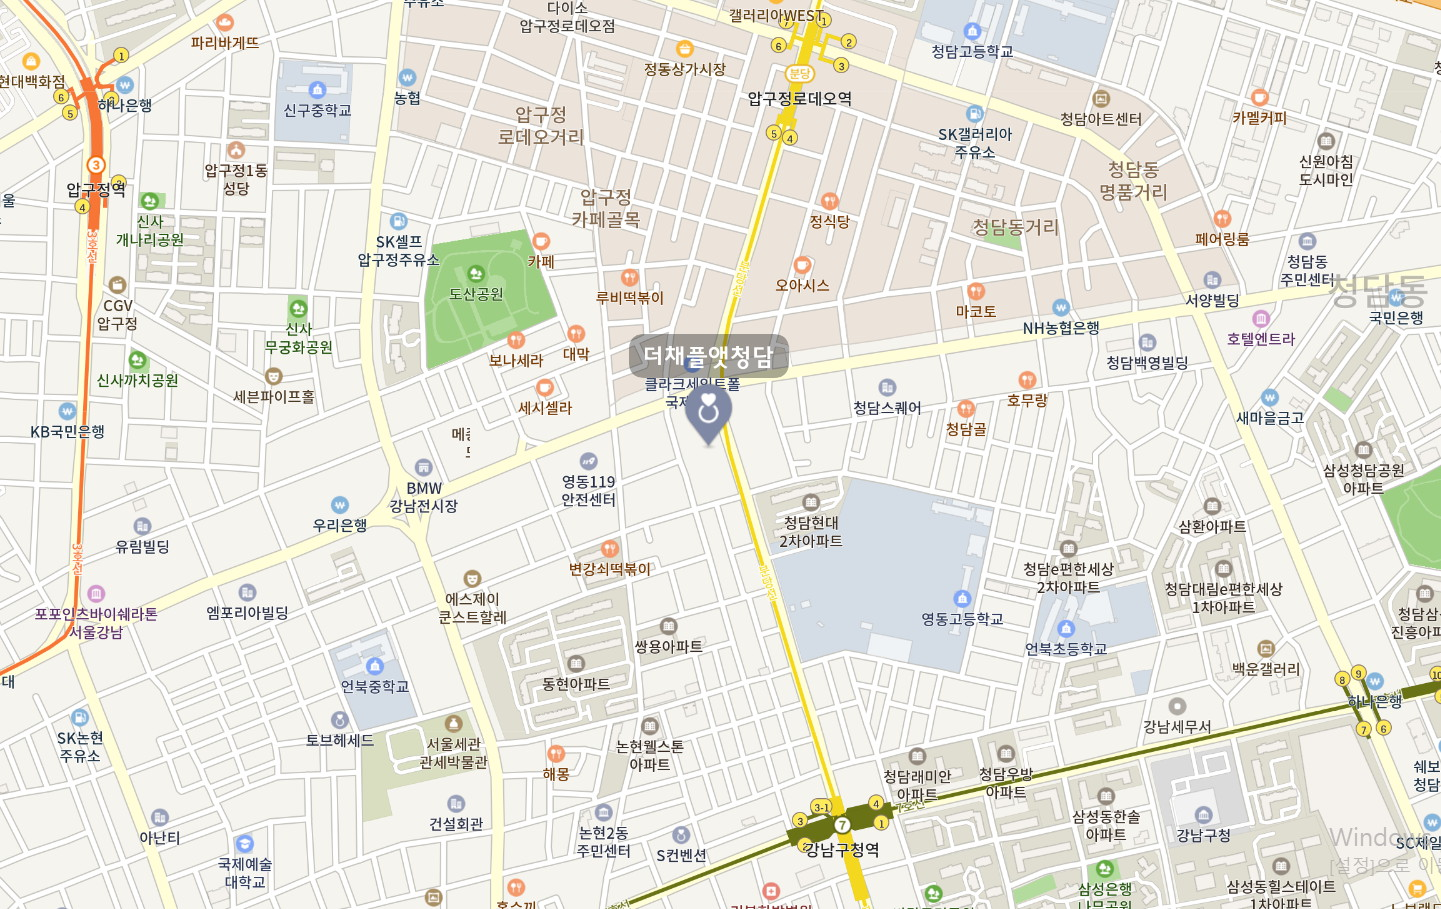
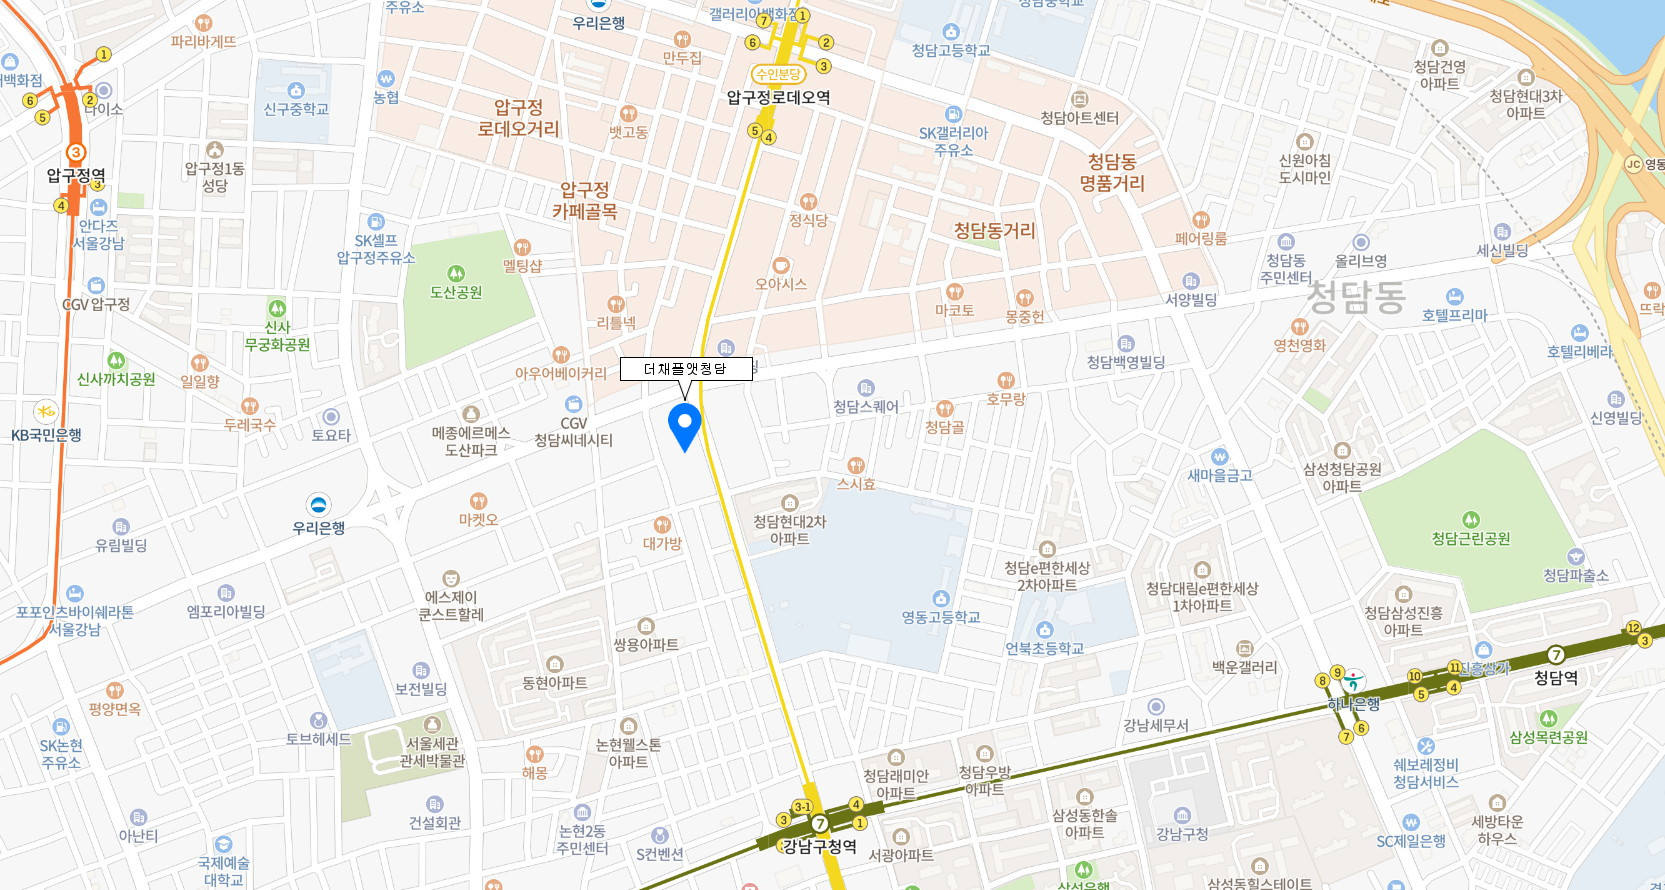
change resouce about map image

diff --git a/projects/weddingcard/js/etc/enum.js b/projects/weddingcard/js/etc/enum.js
@@ -45,7 +45,7 @@ class __ImageMetaData {
         this.__metaMap = new Map();
         this.__metaMap.set(ResourcePath.MainImage, [450, 675]);
         this.__metaMap.set(ResourcePath.DynamicTextFrameImage, [405, 698]);
-        this.__metaMap.set(ResourcePath.MapImage, [1441, 909]);
+        this.__metaMap.set(ResourcePath.MapImage, [1665, 890]);
         this.__metaMap.set(ResourcePath.ManFaceMaskImage, [480, 480]);
         this.__metaMap.set(ResourcePath.RingImage, [420, 204]);
         this.__metaMap.set(ResourcePath.SlideShowMaskImage, [500, 500]);

diff --git a/projects/weddingcard/js/scenes/main/objectinitializer.js b/projects/weddingcard/js/scenes/main/objectinitializer.js
@@ -208,7 +208,7 @@ class ObjectInitializer {
 
         this.__mapModule = new MapView()
             .setPos(0, locationTextView.getPos().y + 80)
-            .setCropSrcPos(((1441 - winSize[0]) / 2), 300)
+            .setCropSrcPos(((1665 - winSize[0]) / 2), 300)
             .setShortcutText("네이버지도 바로가기")
             .setCropSize(winSize[0], 250);
 
